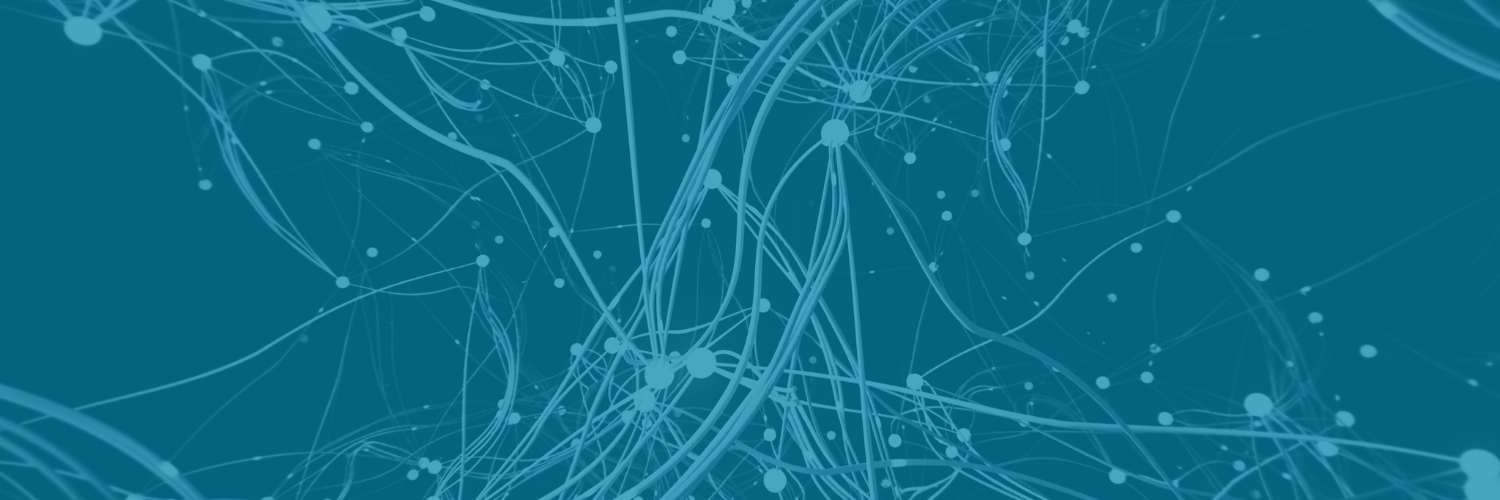
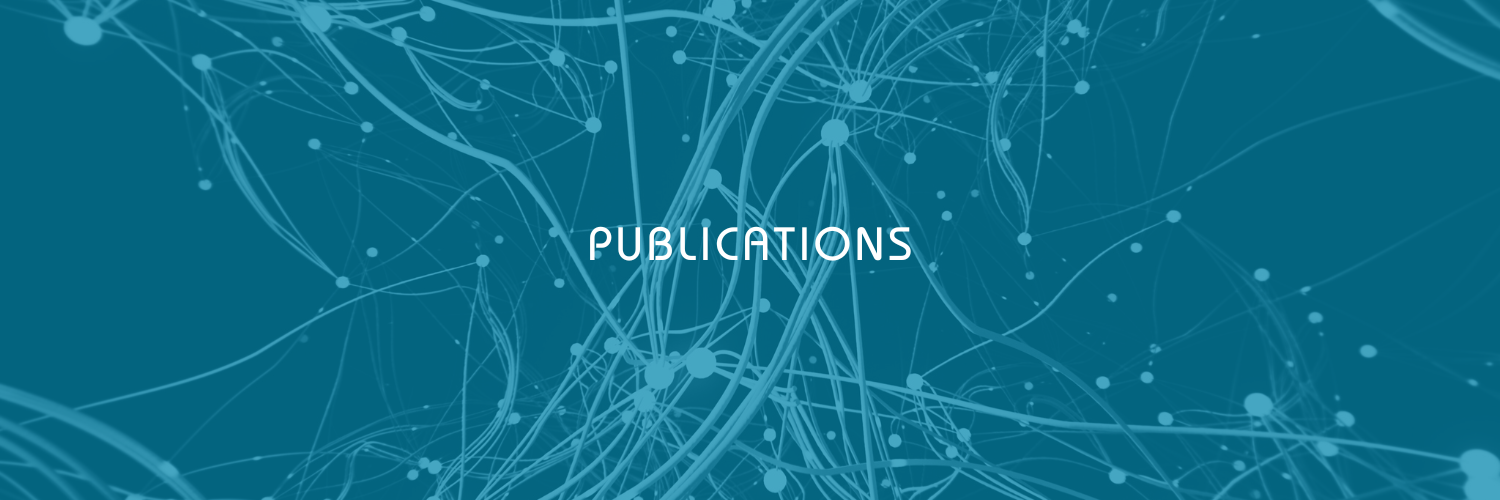
Site content additions.

Changed region(s): [[0.368, 0.45, 0.6133, 0.54]]

diff --git a/content/opportunity/_index.md b/content/opportunity/_index.md
@@ -1,0 +1,11 @@
+---
+title: Opportunities
+
+# Listing view
+view: card
+
+# Optional banner image (relative to `assets/media/` folder).
+banner:
+  caption: 'You can browse our list of open positions (if any) here, as well as get an insight on the type of positions we typically advertise by browsing through our list of previous openings. We are also supportive of hosting strong PhD candidates and researchers supported by a personal fellowship/grant. **Please note:** applications for the listed positions need to be made through the Mass General Brigham (MGB) portal to be formally taken into acount.'
+  image: 'opportunity.png'
+---

diff --git a/content/members/index.md b/content/members/index.md
@@ -1,5 +1,5 @@
 ---
-title: Members
+title: People
 date: 2022-10-24
 
 type: landing
@@ -7,7 +7,7 @@ type: landing
 sections:
   - block: people
     content:
-      title: Meet the Team
+      title: ''
       # Choose which groups/teams of users to display.
       #   Edit `user_groups` in each user's profile to add them to one or more of these groups.
       user_groups:

diff --git a/content/opportunity/post-doc-r01/index.md b/content/opportunity/post-doc-r01/index.md
@@ -1,0 +1,10 @@
+---
+title: Post-Doctoral Fellowship in Neuroimaging of Alzheimer's Disease
+date: 2025-02-11
+---
+
+NIA R01 - Multimodal Computational Neuroimaging, Big Data, Neuropsychiatric Symptoms, & Alzheimer’s Disease.
+
+<!--more-->
+
+More information to be added soon!

diff --git a/content/opportunity/post-doc-t32/index.md b/content/opportunity/post-doc-t32/index.md
@@ -1,0 +1,10 @@
+---
+title: Post-Doctoral Fellowship in Neuroimaging of Substance Use
+date: 2025-02-11
+---
+
+NIDA T32 - Drug Abuse & Brain Imaging Training Program
+
+<!--more-->
+
+More information to be added soon!

diff --git a/content/_index.md b/content/_index.md
@@ -6,6 +6,7 @@ type: landing
 
 # Add the banner image
 banner:
+  caption: ''
   image: 'ansrbanner.png'
 
 sections:

diff --git a/content/publication/_index.md b/content/publication/_index.md
@@ -1,5 +1,5 @@
 ---
-title: Publications
+title: ''
 
 # Listing view
 view: citation
